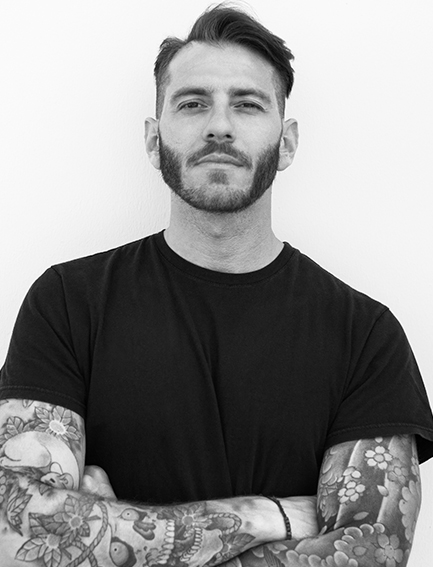
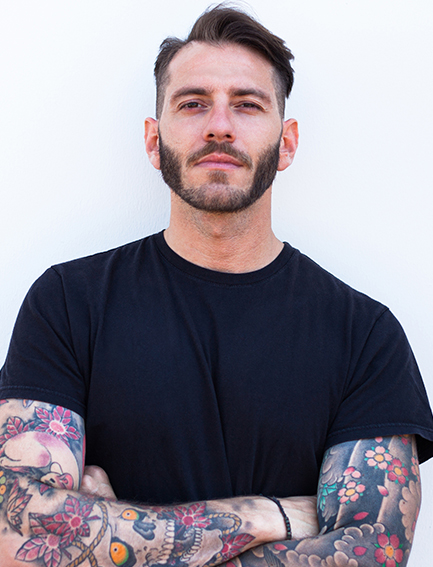
Tattoo Artists page

diff --git a/client/src/CSS/_tattoo-artists.scss b/client/src/CSS/_tattoo-artists.scss
@@ -1,0 +1,161 @@
+.tattoo-artists-page {
+    display: flex;
+    flex-direction: column;
+    align-items: center;
+    justify-content: center;
+    background-color: $black;
+
+    h1 {
+        width: 100%;
+        text-align: center;
+        margin-top:  70px;
+        margin-bottom: 40px;
+        text-transform: uppercase;
+        color: white;
+        font-size: 23px;
+        font-family: $Oswald;
+        display: flex;
+        flex-direction: column;
+
+        @media only screen and (max-width: 500px) {
+            font-size: 18px;
+        }
+
+        span {
+            display: flex;
+            justify-content: center;
+            color: $Orange;
+            font-size: 53px;
+            gap: 20px;
+
+            @media only screen and (max-width: 1000px) {
+                font-size: 42px;
+                gap: 15px;
+            }
+
+            @media only screen and (max-width: 500px) {
+                font-size: 33px;
+                gap: 12px;
+            }
+
+            img {
+                height: 43px;
+                width: 38px;
+                margin-top: 10px;
+
+                @media only screen and (max-width: 1000px) {
+                    height: 35px;
+                    width: 30px;
+                }
+
+                @media only screen and (max-width: 500px) {
+                    height: 28px;
+                    width: 23px;
+                    margin-top: 6px;
+                }
+            }
+        }
+    }
+
+    .tattoo-art-artists {
+        display: flex;
+        justify-content: center;
+        align-items: center;
+        gap: 25px;
+        flex-wrap: wrap;
+        padding-inline: 2vw;
+        padding-bottom: 80px;
+
+        .tattoo-art-item {
+            display: flex;
+            flex-direction: column;
+            align-items: center;
+            gap: 20px;
+
+            img {
+                filter: grayscale(1);
+                transition: all 0.5s ease-in-out;
+                width: 439px;
+                height: auto;
+
+                &:hover {
+                    filter: grayscale(0);    
+                }
+
+                @media only screen and (max-width: 500px) {
+                    width: 400px;
+                }
+
+                @media only screen and (max-width: 450px) {
+                    width: 320px;
+                }
+            }
+
+            p {
+                font-size: 26px;
+                color: white;
+                display: flex;
+                flex-direction: column;
+                align-items: center;
+                font-family: $Oswald;
+
+                span {
+                    color: $Grey;
+                    font-size: 15px;
+                }
+            }
+        }
+    }
+
+    .tattoo-art-contact {
+        position: relative;
+        width: 100%;
+
+        @media only screen and (max-width: 500px) {
+            height: 600px;
+            background-color: $Tan;
+        }
+
+        .contact-background {
+            position: relative;
+            top: -45px;
+        }
+
+        .text {
+            position: absolute;
+            display: flex;
+            flex-direction: column;
+            align-items: center;
+            justify-content: center;
+            top: 0;
+            width: 100%;
+            height: 100%;
+
+            h2 {
+                font-size: 53px;
+                text-transform: uppercase;
+                color: $Orange;
+                font-family: $Oswald;
+
+                @media only screen and (max-width: 1000px) {
+                    font-size: 42px;
+                }
+
+                @media only screen and (max-width: 790px) {
+                    font-size: 36px;
+                    text-align: center;
+                }
+
+                @media only screen and (max-width: 690px) {
+                    font-size: 28px;
+                }
+            }
+
+            p {
+                text-align: center;
+                width: 100%;
+                color: $black;
+            }
+        }
+    }
+}

diff --git a/client/src/components/Home.js b/client/src/components/Home.js
@@ -5,32 +5,32 @@ const Home = () => {
     return (
         <>
             <section className="schedule-apt padding-inline">
-                    <video className="background-video" autoplay="" muted="" loop="">
-                        <source src="/Video/TattooBanner.mp4" type="video/mp4"/>
-                        <source src="/Video/TattooBanner.webm" type="video/webm"/>
-                    </video>
+                <video className="background-video" autoplay="" muted="" loop="">
+                    <source src="/Video/TattooBanner.mp4" type="video/mp4"/>
+                    <source src="/Video/TattooBanner.webm" type="video/webm"/>
+                </video>
 
-                    <div className="paper-gradient"></div>
+                <div className="paper-gradient"></div>
 
-                    <div className="schedule-apt-text">
-                        <h1>
-                            <span>WAUKESHA'S TOP RATED</span>
-                            <br/> 
-                            BODY ART STUDIO
-                        </h1>
+                <div className="schedule-apt-text">
+                    <h1>
+                        <span>WAUKESHA'S TOP RATED</span>
+                        <br/> 
+                        BODY ART STUDIO
+                    </h1>
 
-                        <p>
-                            Lorem ipsum dolor sit amet, consectetur adipisicing elit, sed do eiusmod tempor incididunt ut 
-                            labore et dolore magna aliqua. Ut enim ad minim veniam, quis nostrud exercitation ullamco laboris.</p>
-                        <p>
+                    <p>
+                        Lorem ipsum dolor sit amet, consectetur adipisicing elit, sed do eiusmod tempor incididunt ut 
+                        labore et dolore magna aliqua. Ut enim ad minim veniam, quis nostrud exercitation ullamco laboris.</p>
+                    <p>
 
-                            <a class="schedule-apt-button" href="/Contact"> 
-                                <img class="apt-button-left" src="/images/Home/schedule-apt-left-btn.png" border="0" alt="" /> 
-                                SCHEDULE APPOINTMENT 
-                                <img class="apt-button-right" src="/images/Home/schedule-apt-right-btn.png" border="0" alt="" /> 
-                            </a>
-                        </p>
-                    </div>
+                        <a class="schedule-apt-button" href="/Contact"> 
+                            <img class="apt-button-left" src="/images/Home/schedule-apt-left-btn.png" border="0" alt="" /> 
+                            SCHEDULE APPOINTMENT 
+                            <img class="apt-button-right" src="/images/Home/schedule-apt-right-btn.png" border="0" alt="" /> 
+                        </a>
+                    </p>
+                </div>
             </section>
 
             <section className="excellent-headline-section padding-inline">

diff --git a/client/src/components/TattooArtists.js b/client/src/components/TattooArtists.js
@@ -1,8 +1,63 @@
 import react from 'react'; 
+import { Link } from 'react-router-dom';
 
 const TattooArtists = () => {
     return (
-        <h1>Tattoo Artists Page</h1>
+    <>
+        <div className="secondary-banner">
+                <img class="tattoo-art-background" src="/images/TattooArtists/background.png" alt=""/>
+            </div>
+        
+        <section class="tattoo-artists-page">    
+            <h1>
+                Waukesha
+                <span>
+                    <img src="/images/TattooArtists/title-left.png" alt=""/>
+                    Tattoo Artists
+                    <img src="/images/TattooArtists/title-right.png" alt=""/>
+                </span>
+            </h1>
+
+            <div class="tattoo-art-artists">
+                <div class="tattoo-art-item">
+                    <img src="/images/TattooArtists/Kyle.jpg" alt=""/>
+
+                    <p>Kyle Baxter<span>Traditional Style</span></p>
+                </div>
+
+                <div class="tattoo-art-item">
+                    <img src="/images/TattooArtists/Bailey.jpg" alt=""/>
+
+                    <p>Bailey Renee<span>Geometric, Fine line Style</span></p>
+                </div>
+
+                <div class="tattoo-art-item">
+                    <img src="/images/TattooArtists/Jenn.jpg" alt=""/>
+
+                    <p>Jenn Schafer<span>Blackwork, Realism Style</span></p>
+                </div>
+
+                <div class="tattoo-art-item">
+                    <img src="/images/TattooArtists/Matt.jpg" alt=""/>
+
+                    <p>Matt Krstic<span>Neo Traditional Style</span></p>
+                </div>
+            </div>
+
+            <div class="tattoo-art-contact">
+                <picture>
+                    <source media="(max-width:500px)" srcset="/images/TattooArtists/contact-us-mobile-background.png"/>
+                    <img className="contact-background" src="/images/TattooArtists/contact-us-background.png" alt=""/>
+                </picture>
+
+                <div className='text padding-inline'>
+                    <h2>Looking to guest spot at our shop?</h2>
+                    <p>Lorem ipsum dolor sit amet, consectetur adipisicing elit, sed do eiusmod tempor incididunt ut labore et dolore magna aliqua. Ut enim ad minim veniam, quis nostrud exercitation ullamco laboris nisi ut.Lorem ipsum dolor sit amet, consectetur adipisicing elit, sed do eiusmod tempor incididunt ut labore et dolore magna aliqua. Ut enim ad minim veniam, quis nostrud exercitation ullamco laboris nisi ut.ut.</p>
+                    <Link className="tattoo-art-contact-btn" to="/create">Contact Us</Link>
+                </div>
+            </div>
+        </section>
+    </>
     );
 }
 

diff --git a/client/src/CSS/_shared-styles.scss b/client/src/CSS/_shared-styles.scss
@@ -3,6 +3,14 @@
 * Date: March 15th, 2023
 */ 
 
+// Variables
+$black: #000000;
+$Orange: #b46124; 
+$Grey: #505050; 
+$Tan: #e5c8a3;
+$Merriweather: 'Merriweather'; 
+$Oswald: 'Oswald';
+
 // adjust left/right padding here
 
 .padding-inline {
@@ -96,9 +104,11 @@ p {
     letter-spacing: 0.2px;
     text-decoration: none;
     transition: all 0.25s ease-in-out;
+    text-transform: uppercase;
 
     &:hover {
-        background-color: rgba(0, 0, 0, 0.7);
+        background-color: $Orange;
+        border: none;
         color: white;
     }
 }

diff --git a/client/src/App.js b/client/src/App.js
@@ -27,9 +27,9 @@ const App = () => {
       <Route exact path="admin" element={<Admin />} />
        <Route path="/edit/:id" element={<Edit />} />
        <Route path="/create" element={<Create />} />
-       <Route path="about" element={<About />} /> 
+       <Route path="/about" element={<About />} /> 
        <Route path="*" element={<NoPage />} /> 
-       <Route path="tattooartists" element={<TattooArtists />} /> 
+       <Route path="/tattooartists" element={<TattooArtists />} /> 
      </Routes>
      <Footer />
    </div>

diff --git a/client/src/components/recordList.js b/client/src/components/recordList.js
@@ -69,6 +69,10 @@ export default function RecordList() {
  // This following section will display the table with the records of individuals.
  return (
    <div>
+     <div className="secondary-banner">
+       <img src="/images/Contact/background.jpg" alt="" />
+       <div className="paper-gradient"></div>
+     </div>
      <h3>Record List</h3>
      <table className="table table-striped" style={{ marginTop: 20 }}>
        <thead>

diff --git a/client/src/CSS/_header.scss b/client/src/CSS/_header.scss
@@ -55,7 +55,7 @@ header {
     img {
         height: 10px;
         width: 10px;
-        margin-top: 24px;
+        margin-top: 9px;
         margin-right: 10px;
     }
 } 

diff --git a/client/src/App.scss b/client/src/App.scss
@@ -15,3 +15,5 @@
 @import "./CSS/_shared-styles.scss";
 
 @import "./CSS/contact.scss";
+
+@import "./CSS/tattoo-artists.scss";
